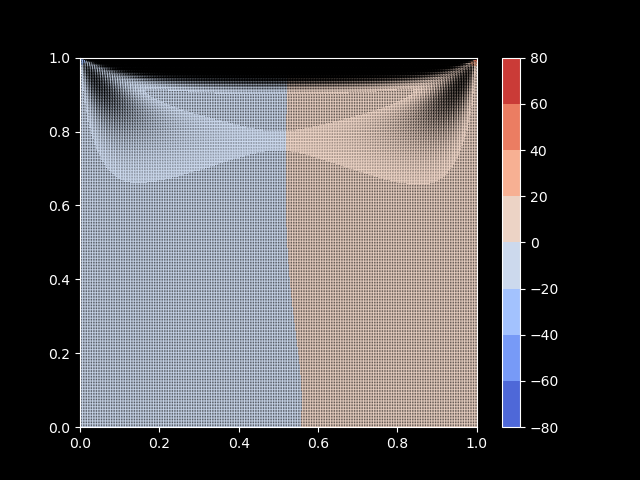
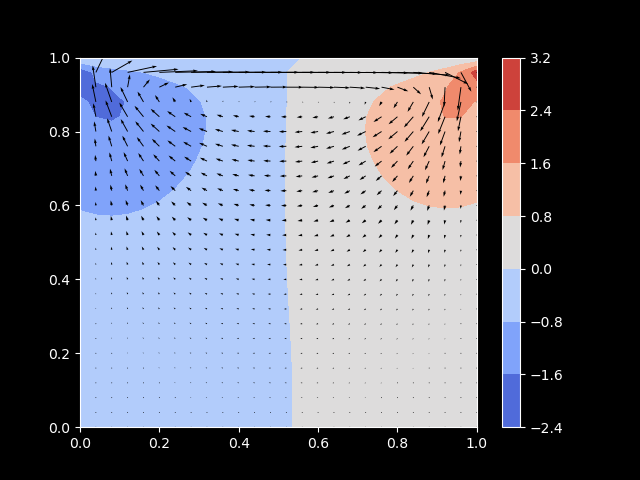
new commit

diff --git a/mpi.py b/mpi.py
@@ -2,11 +2,12 @@
 import matplotlib.pyplot as plt
 import numpy as np
 from tqdm import tqdm
+from mpi4py import MPI
 
 # in step one only change N_POINTS 51 201 301 481
 # In step two keep N_POINTS=481 contsnat
 # in step three keep N_POINTS=481 contsnat
-N_POINTS = 51
+N_POINTS = 481
 DOMAIN_SIZE = 1.0
 # In step one keep N_ITERATIONS = 3000
 # In step two change N_ITERATIONS 50 500 1500 3000
@@ -80,8 +81,15 @@ def main():
     if TIME_STEP_LENGTH > STABILITY_SAFETY_FACTOR * maximum_possible_time_step_length:
         raise RuntimeError("Stability is not guarenteed")
 
-    
-    for _ in tqdm(range(N_ITERATIONS)):
+    comm = MPI.COMM_WORLD
+    rank = comm.Get_rank()
+    size = comm.Get_size()
+
+    chunk_size = N_ITERATIONS // size
+    start = rank * chunk_size
+    end = (rank + 1) * chunk_size
+
+    for _ in tqdm(range(start,end)):
         d_u_prev__d_x = central_difference_x(u_prev)
         d_u_prev__d_y = central_difference_y(u_prev)
         d_v_prev__d_x = central_difference_x(v_prev)
@@ -210,7 +218,7 @@ def main():
         v_prev = v_next
         p_prev = p_next
     
-
+    MPI.Finalize()
     # The [::2, ::2] selects only every second entry (less cluttering plot)
     plt.style.use("dark_background")
     plt.figure()
@@ -221,7 +229,7 @@ def main():
     # plt.streamplot(X[::2, ::2], Y[::2, ::2], u_next[::2, ::2], v_next[::2, ::2], color="black")
     plt.xlim((0, 1))
     plt.ylim((0, 1))
-    plt.savefig('Lid_Driven_Cavity3000_51.png')
+    plt.savefig('Lid_Driven_Cavity.png')
 
 
 if __name__ == "__main__":
